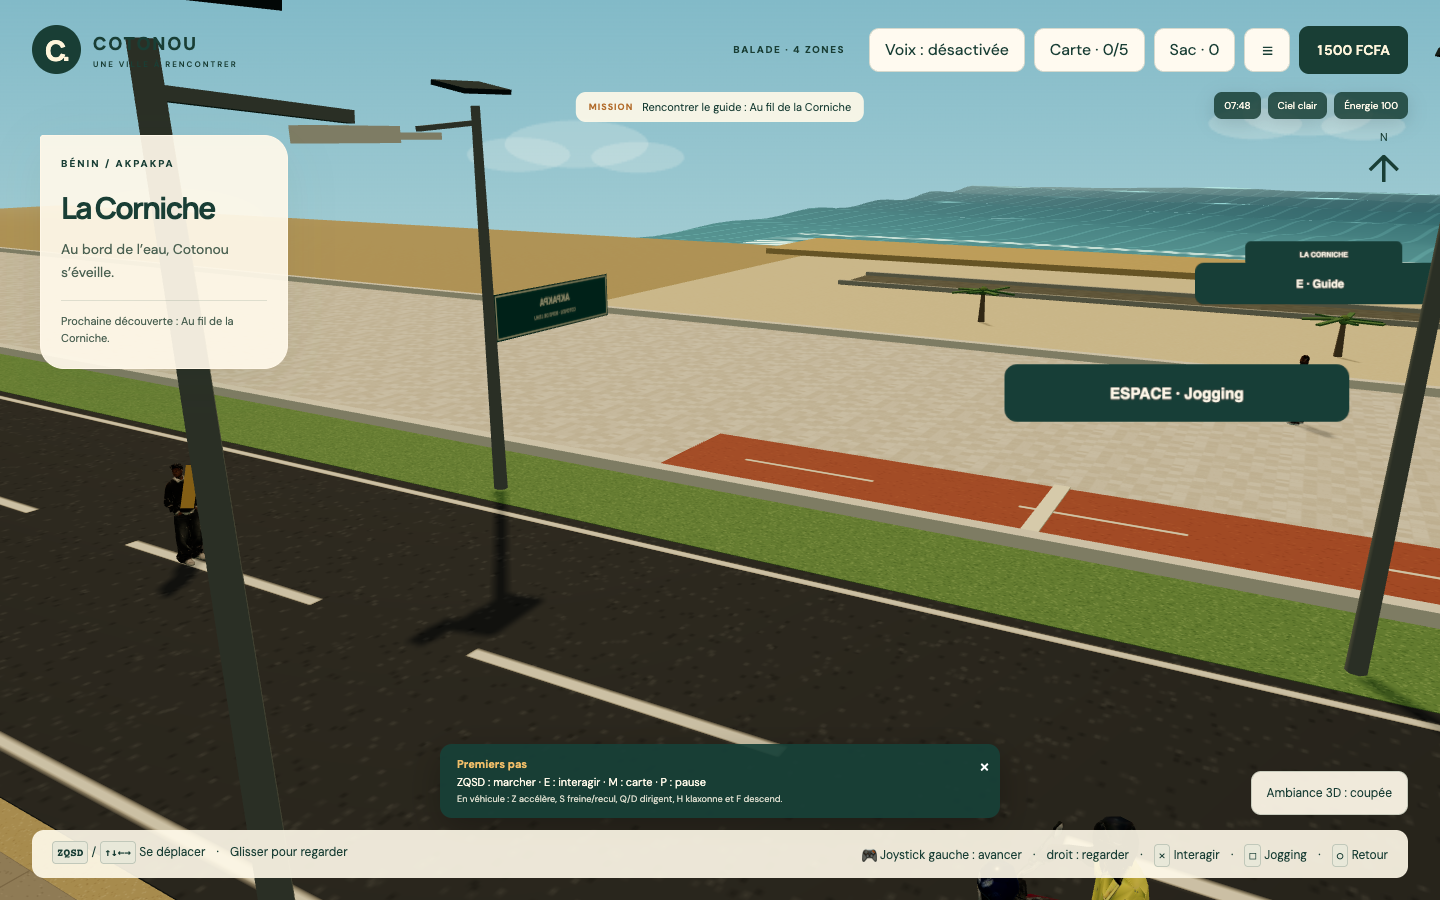
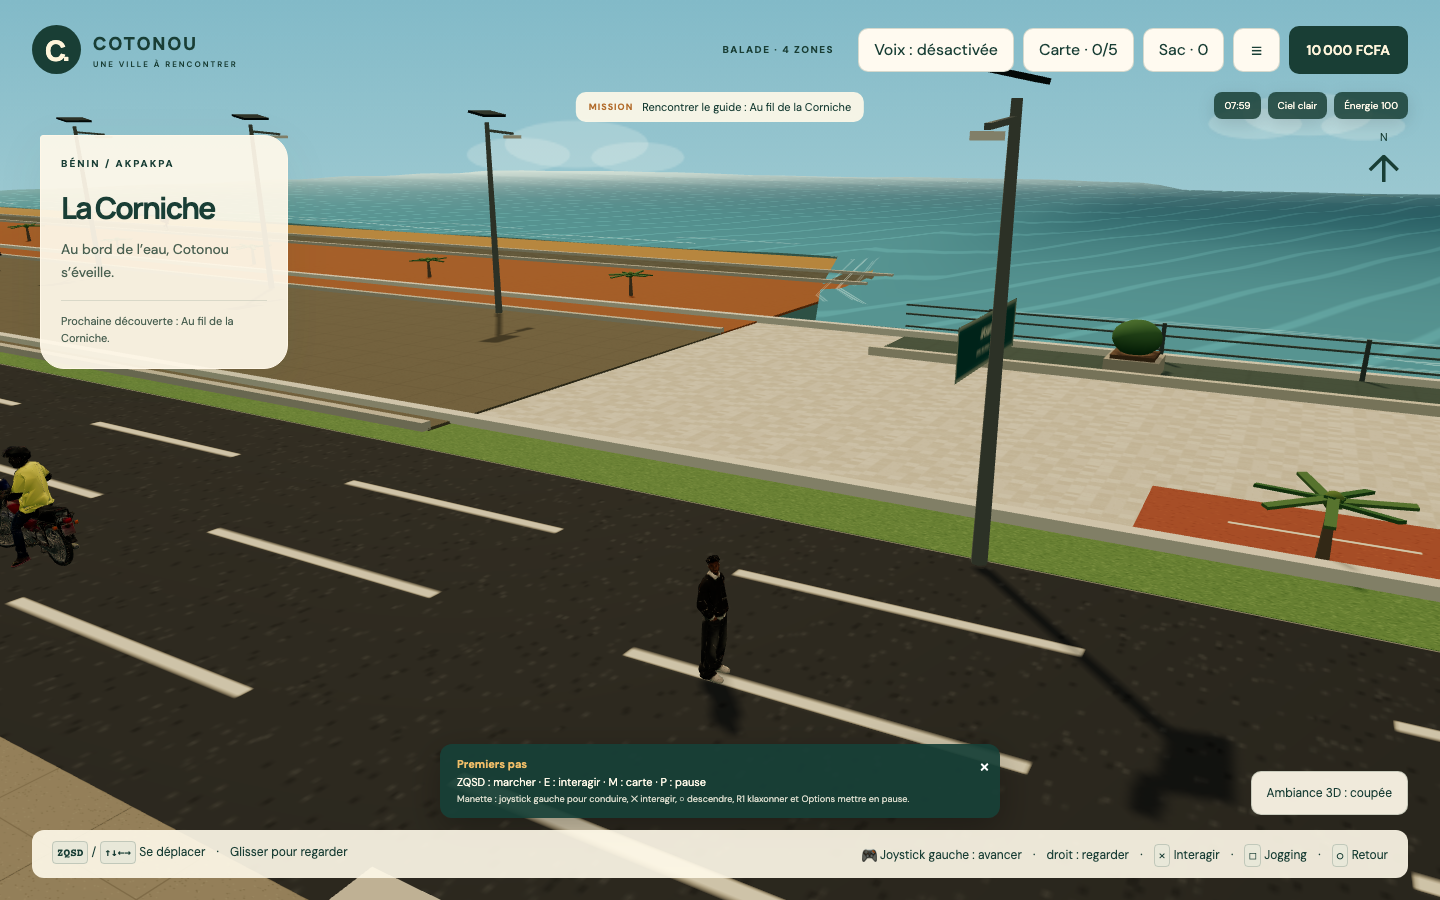
feat: enhance urban landscape with new city front and detailed structures

diff --git a/src/entities/Rues.ts b/src/entities/Rues.ts
@@ -24,7 +24,7 @@ export class Rues {
   private readonly statiques:{objet:T.Object3D;portee:number}[]=[];
   private temps=0;
   constructor(private readonly b:Batisseur){
-    this.cornichePlage6194();this.cornicheObservee();this.fresquePortuaire();this.carrefoursOfficiels();
+    this.cornichePlage6194();this.frontPlageOuverte();this.cornicheObservee();this.fresquePortuaire();this.carrefoursOfficiels();
     this.facades();this.abords();this.circulation();this.passants();
   }
   /** Mobilier du premier tronçon, relevé dans les 17 secondes de IMG_6194.MOV. */
@@ -274,10 +274,164 @@ export class Rues {
     c.beginPath();c.moveTo(128,102);c.lineTo(117,145);c.lineTo(91,181);c.moveTo(119,139);c.lineTo(151,176);c.moveTo(122,119);c.lineTo(158,137);c.stroke();
     for(let i=0;i<4;i++){c.fillStyle='#252d30';c.fillRect(61+i*36,196,25,9);}
     const texture=new T.CanvasTexture(toile);texture.colorSpace=T.SRGBColorSpace;
-    const g=new T.Group();g.name='panneau-pieton-6194';g.position.set(x,0,z);this.b.scene.add(g);
+    const g=new T.Group();g.name=`panneau-pieton-${Math.round(z)}`;g.position.set(x,0,z);this.b.scene.add(g);
     this.b.cyl(.065,.09,3.7,7,'#737975',0,1.85,0,g);
     const panneau=new T.Mesh(new T.PlaneGeometry(1.25,1.25),new T.MeshStandardMaterial({map:texture,roughness:.85,side:T.DoubleSide}));
     panneau.position.set(0,3.45,0);g.add(panneau);
+  }
+  /**
+   * Front de ville qui fait face à la plage ouverte, relevé sur IMG_6202–6207 :
+   * clôtures blanches à claustras et pilastres bleus, portail métallique, fonds
+   * de parcelle plantés de cocotiers, complexe vert menthe à toitures en pente,
+   * immeuble à balcons, terrain sableux ceint d'un mur ajouré sombre, puis
+   * immeubles clairs et pylône télécom au fond. Ce côté du boulevard était vide
+   * sur tout le premier tronçon : le regard partait droit dans le ciel.
+   */
+  private frontPlageOuverte(){
+    // Trottoir et caniveau continus, dans la même coupe que le tronçon suivant.
+    this.b.sol(3.2,126,this.b.tex('beton',2,45,'#d8d3c8'),23.1,87,.02);
+    this.b.sol(.55,126,'#64665f',21.25,87,-.07);
+    for(let z=148;z>28;z-=9)this.b.boite(.85,.1,2,'#cbc5b8',21.35,.02,z).castShadow=false;
+    // Les mâts solaires se succèdent aussi côté ville sur la chaussée neuve.
+    for(let z=146;z>28;z-=15)this.lampadaireSolaire(21.45,z,-1);
+    // Seconde traversée piétonne, à mi-parcours de la plage ouverte.
+    for(let x=10.1;x<22.2;x+=1.35)this.b.boite(.76,.035,3,'#f2efe5',x,.035,58).castShadow=false;
+    this.panneauPieton(23.5,63);
+
+    // Clôtures de propriétés, coupées par un portail puis par le terrain vague.
+    this.clotureClaustra(127,42,'#eceadf','#5a86a6');
+    this.portailBleu(100);
+    this.clotureClaustra(85,18,'#eceadf','#5a86a6');
+    this.clotureClaustra(59,30,'#cfcabb','#4d5a57');
+    this.clotureClaustra(35,14,'#eceadf','#5a86a6');
+    // Terrain sableux derrière le mur ajouré sombre relevé sur IMG_6203.
+    this.b.sol(18,26,this.b.tex('sable',7,10,'#c99a63'),36,57,.015);
+    for(const [x,z] of [[25.6,118],[25.6,119.6],[25.6,76.5],[25.6,78.1],[25.6,46]] as const)this.poubelleVerte(x,z);
+
+    // Fonds de parcelle : cocotiers serrés, paillote et petit bâtiment patiné.
+    for(let z=146;z>30;z-=9.5){
+      if(z<73&&z>45)continue;
+      this.b.cocotier(30.2+varie(z,3)*2.6,z+varie(z,8)*2.4,false);
+    }
+    this.paillote(32.5,104);
+    this.b.boite(9,2.9,12,'#c3bbaa',31.5,1.45,86);
+    this.b.boite(9.8,.32,12.8,'#4d7fa1',31.5,3.06,86);
+    for(const [x,z] of [[29.5,76],[33,42]] as const)this.b.arbre(x,z,.8);
+
+    // Complexe vert menthe : hangars à toiture en pente et immeuble à balcons.
+    for(const z of [146,137,128])this.hangarVert(42,z,13,7.4,3.6);
+    this.immeubleBalcons(41,112);
+    // Longs bâtiments clairs à bandeaux, coiffés d'une tourelle cylindrique.
+    this.immeubleBandeaux(43,84,14,13,26);
+    this.immeubleBandeaux(43,32,13,10,18);
+    // Immeubles lointains et pylône télécom, repères du fond de la photo.
+    for(const [x,z,h,teinte] of [[56,134,11,'#d8a58c'],[56,100,9,'#cfd3c0'],[56,56,12,'#d3b79a']] as const){
+      this.b.boite(12,h,16,this.b.tex('immeuble',1,h/5,teinte),x,h/2,z);
+      this.b.boite(12.6,.3,16.6,'#b6b0a2',x,h+.15,z);
+    }
+    this.pyloneTelecom(52,118,19);
+  }
+  /**
+   * Clôture de propriété de la Corniche Est : soubassement, panneaux clairs,
+   * pilastres et couronnements colorés, rangée de claustras ajourés au sommet.
+   */
+  private clotureClaustra(z:number,longueur:number,panneau:string,accent:string){
+    const g=new T.Group();g.name=`cloture-corniche-${Math.round(z)}`;g.position.set(26.9,0,z);this.b.scene.add(g);
+    this.b.boite(.44,.3,longueur,'#b6b0a1',0,.15,0,g);
+    this.b.boite(.34,1.6,longueur,panneau,0,1.1,0,g);
+    this.b.boite(.42,.2,longueur,accent,0,2,0,g);
+    this.b.boite(.28,.62,longueur,this.b.tex('claustra',Math.round(longueur/1.3),1,'#e9e5d8'),0,2.41,0,g);
+    this.b.boite(.42,.16,longueur,accent,0,2.8,0,g);
+    // Le pas est ajusté pour qu'un pilastre tombe exactement aux deux bouts.
+    const pas=longueur/Math.max(1,Math.round(longueur/4.4));
+    for(let dz=-longueur/2;dz<=longueur/2+.01;dz+=pas)this.b.boite(.48,2.88,.48,accent,0,1.44,dz,g);
+    this.statiques.push({objet:g,portee:170});
+    return g;
+  }
+  /** Portail métallique bleu à deux battants, entre deux piles blanches. */
+  private portailBleu(z:number){
+    const g=new T.Group();g.name='portail-corniche';g.position.set(26.9,0,z);this.b.scene.add(g);
+    for(const dz of [-2.05,2.05]){
+      this.b.boite(.14,2.5,4,'#3f6f96',0,1.28,dz,g);
+      for(let y=.5;y<2.4;y+=.44)this.b.boite(.18,.08,3.8,'#31597b',0,y,dz,g).castShadow=false;
+    }
+    for(const dz of [-4.3,4.3])this.b.boite(.56,3.05,.56,'#e2ddcf',0,1.52,dz,g);
+    this.statiques.push({objet:g,portee:170});
+  }
+  /** Paillote à toit de chaume aperçue derrière la clôture sur IMG_6204. */
+  private paillote(x:number,z:number){
+    const g=new T.Group();g.name='paillote-corniche';g.position.set(x,0,z);this.b.scene.add(g);
+    for(const [dx,dz] of [[-2.3,-2.3],[2.3,-2.3],[-2.3,2.3],[2.3,2.3]] as const)
+      this.b.cyl(.11,.14,2.6,6,'#8a6f4f',dx,1.3,dz,g);
+    const bord=this.b.cone(4.5,.4,4,'#8a6a3a',0,2.75,0,g);bord.rotation.y=Math.PI/4;
+    const toit=this.b.cone(4.1,1.6,4,'#a6813f',0,3.4,0,g);toit.rotation.y=Math.PI/4;
+    this.statiques.push({objet:g,portee:170});
+  }
+  /** Hangar vert menthe à toiture en pente du complexe vu sur IMG_6202. */
+  private hangarVert(x:number,z:number,w:number,d:number,h:number){
+    const g=new T.Group();g.name=`hangar-vert-${Math.round(z)}`;g.position.set(x,0,z);this.b.scene.add(g);
+    this.b.boite(w,h,d,'#cfe0d2',0,h/2,0,g);
+    for(const sens of [-1,1]){
+      const pan=this.b.boite(w+.6,.2,d/2+.6,'#a8bcac',0,h+.58,sens*d/4,g);
+      pan.rotation.x=sens*.3;
+    }
+    this.b.boite(w-1,.85,.16,'#eef4ec',0,h-.75,-d/2-.08,g);
+    for(const dx of [-w/4,w/4])this.b.boite(1.3,1.5,.12,'#48696c',dx,h/2-.2,-d/2-.07,g);
+    this.statiques.push({objet:g,portee:170});
+  }
+  /** Immeuble pâle à trois niveaux de balcons filants, centre de la photo IMG_6202. */
+  private immeubleBalcons(x:number,z:number){
+    const g=new T.Group();g.name=`immeuble-balcons-${Math.round(z)}`;g.position.set(x,0,z);this.b.scene.add(g);
+    this.b.boite(11,9.6,12,'#cadfd0',0,4.8,0,g);
+    for(let y=3.1;y<9.2;y+=3.1){
+      this.b.boite(11.5,.2,12.5,'#eaf0e7',0,y,0,g).castShadow=false;
+      for(const dz of [-3.6,0,3.6]){
+        this.b.boite(.12,1.6,2.5,'#40636b',-5.56,y+.95,dz,g);
+        const dalle=this.b.boite(1.5,.14,2.8,'#eaf0e7',-6.2,y+.22,dz,g);dalle.castShadow=false;
+        for(let bz=-1.25;bz<1.3;bz+=.42)this.b.boite(.07,.8,.07,'#8a9c8d',-6.85,y+.62,dz+bz,g).castShadow=false;
+        this.b.boite(.1,.1,2.75,'#8a9c8d',-6.85,y+1.02,dz,g).castShadow=false;
+      }
+    }
+    this.b.boite(11.6,.34,12.6,'#a8bdae',0,9.77,0,g);
+    this.statiques.push({objet:g,portee:170});
+  }
+  /** Long bâtiment clair à bandeaux et tourelle de toit, fond de la photo IMG_6205. */
+  private immeubleBandeaux(x:number,z:number,w:number,h:number,d:number){
+    const g=new T.Group();g.name=`immeuble-bandeaux-${Math.round(z)}`;g.position.set(x,0,z);this.b.scene.add(g);
+    this.b.boite(w,h,d,'#dee4e1',0,h/2,0,g);
+    for(let y=2.7;y<h-1;y+=3.2){
+      this.b.boite(.12,1.45,d-1.8,'#3f6d84',-w/2-.06,y,0,g);
+      this.b.boite(w-1.8,1.45,.12,'#3f6d84',0,y,-d/2-.06,g);
+    }
+    this.b.boite(w+.7,.34,d+.7,'#bac2be',0,h+.17,0,g);
+    this.b.cyl(1.8,1.8,3,12,'#e8ece8',w*.2,h+1.8,d*.12,g);
+    this.statiques.push({objet:g,portee:170});
+  }
+  /** Pylône télécom en treillis, silhouette récurrente au-dessus du quartier. */
+  private pyloneTelecom(x:number,z:number,h:number){
+    const g=new T.Group();g.name='pylone-telecom-corniche';g.position.set(x,0,z);this.b.scene.add(g);
+    const acier=this.b.mat('#8f9691');
+    for(const [dx,dz] of [[-1,-1],[1,-1],[-1,1],[1,1]] as const){
+      const jambe=this.b.cyl(.07,.11,h,5,acier,dx*.6,h/2,dz*.6,g);
+      jambe.rotation.set(-dz*.022,0,dx*.022);jambe.castShadow=false;
+    }
+    for(let y=1.8;y<h;y+=3.2){
+      for(const dz of [-.6,.6])this.b.boite(1.25,.07,.07,acier,0,y,dz,g).castShadow=false;
+      for(const dx of [-.6,.6])this.b.boite(.07,.07,1.25,acier,dx,y,0,g).castShadow=false;
+    }
+    for(const dy of [0,1])for(const a of [0,2.09,4.19]){
+      const antenne=this.b.boite(.85,.55,.11,'#cbcfc8',Math.cos(a)*1.05,h-1.3-dy,Math.sin(a)*1.05,g);
+      antenne.rotation.y=-a;antenne.castShadow=false;
+    }
+    this.statiques.push({objet:g,portee:170});
+  }
+  /** Bac à ordures vert sur roues, aligné au pied des clôtures. */
+  private poubelleVerte(x:number,z:number){
+    const g=new T.Group();g.position.set(x,0,z);this.b.scene.add(g);
+    this.b.boite(.7,.92,.6,'#3f7248',0,.55,0,g);
+    this.b.boite(.76,.1,.66,'#2f5636',0,1.06,0,g);
+    for(const dz of [-.2,.2])this.b.cyl(.09,.09,.07,8,'#2b2f2d',-.26,.09,dz,g).rotation.z=Math.PI/2;
+    this.statiques.push({objet:g,portee:120});
   }
   private parasol(x:number,z:number,couleur:string){
     const g=new T.Group();g.position.set(x,0,z);this.b.racine.add(g);

diff --git a/src/entities/Monuments.ts b/src/entities/Monuments.ts
@@ -20,7 +20,7 @@ export function boulevard(b: Batisseur) {
   // circulation peut ainsi faire demi-tour hors champ sans rouler dans le vide.
   const longueur = 710, centre = -175;
   b.sol(28, longueur, b.tex('sable', 14, 310, '#cfc6ab'), -22, centre, -.05).name='sol-lointain-ouest';
-  b.sol(30, longueur, b.tex('sable', 15, 310, '#c9c2a8'), 36, centre, -.05).name='sol-lointain-est';
+  b.sol(64, longueur, b.tex('sable', 32, 310, '#c9c2a8'), 53, centre, -.05).name='sol-lointain-est';
   b.sol(16.4, longueur, b.tex('paves', 8, 308), .1, centre).name='promenade-continue';
   b.sol(2.2, longueur, b.tex('gazon', 1.5, 205), 9.25, centre, -.02).name='accotement-continu';
   b.sol(13, longueur, b.tex('asphalte', 1, 77), 16, centre, -.03).name='chaussee-continue';
@@ -37,8 +37,8 @@ function horizonUrbain(b: Batisseur) {
   const couleurs=['#c9bda8','#b7c2bb','#d2aa87','#aab8b5','#d5cbb7'];
   // Deux rangées restent derrière les façades détaillées. Leur silhouette est
   // visible lorsque le joueur regarde de côté, à la place d'un grand fond vide.
-  for(let i=0;i<19;i++){
-    const z=66-i*30+(i%2?4:-3),x=72;
+  for(let i=0;i<23;i++){
+    const z=171-i*30+(i%2?4:-3),x=72;
     const h=5+(i*7%11),w=13+(i%3)*4,d=18+(i%4)*3;
     const immeuble=b.boite(w,h,d,couleurs[(i+2)%couleurs.length],x,h/2,z);
     immeuble.castShadow=false;
@@ -46,7 +46,7 @@ function horizonUrbain(b: Batisseur) {
     bande.castShadow=false;
   }
   // Les deux extrémités ferment la perspective au-delà des demi-tours du trafic.
-  for(const z of [82,-474])for(let x=30;x<=70;x+=20){
+  for(const z of [176,-474])for(let x=30;x<=70;x+=20){
     const h=5+Math.abs(Math.round(x/10))%8;
     const fond=b.boite(16,h,13,couleurs[Math.abs(Math.round(x/20))%couleurs.length],x,h/2,z);
     fond.castShadow=false;

diff --git a/docs/REFERENCES.md b/docs/REFERENCES.md
@@ -225,3 +225,9 @@ Les vidéos locales `CORNICHE .mp4` et `TOUR.mp4` ont été parcourues sur toute
 `CORNICHE .mp4` montre une chaussée sombre large, plusieurs files séparées par des pointillés blancs, le bord d'eau très proche, une bande de promenade bleu-gris, un garde-corps métallique, des jardinières espacées et un front bâti bas côté ville. `TOUR.mp4` montre les jardins géométriques autour de l'Amazone, une allée blanche sinueuse, de grands îlots verts, la Cité ministérielle, le Palais des Congrès et des quartiers résidentiels composés de villas claires à toits orangés, jardins clos et piscines.
 
 Corrections réalisées : l'océan rejoint désormais la promenade de la Corniche ; ses vagues et son écume restent animées mais plus discrètes. La promenade reçoit sa bande bleu-gris, sa rambarde et ses jardinières. Le boulevard est élargi et son marquage suggère quatre files. Un jardin aérien avec allée courbe prolonge l'Esplanade et un arrière-plan de villas végétalisées complète le côté ville.
+
+## Front de ville face à la plage ouverte `IMG_6202–6207`
+
+Vue depuis la chaussée, côté ville, à hauteur du premier tronçon de la Corniche. Les six clichés montrent une clôture continue de propriétés : soubassement, panneaux blancs, pilastres et couronnements bleu-gris, rangée de claustras ajourés au sommet, et un portail métallique bleu à deux battants. Des bacs à ordures verts sont alignés au pied du mur, sur un trottoir clair bordé d'un caniveau. Derrière la clôture : des cocotiers, une paillote, un petit bâtiment de béton patiné à acrotère bleu. Au second plan, un complexe vert menthe à toitures en pente, un immeuble pâle à trois niveaux de balcons filants, un long bâtiment clair à bandeaux coiffé d'une tourelle cylindrique. Au fond, un terrain sableux ceint d'un mur ajouré sombre, des immeubles saumon et beige, et un pylône télécom en treillis. La chaussée neuve est jalonnée d'une forêt de mâts solaires, des deux côtés, et coupée de passages piétons.
+
+Corrections réalisées : ce côté du boulevard était entièrement vide sur tout le premier tronçon — le regard partait droit dans le ciel depuis la promenade. Le front bâti ci-dessus le comble, du trottoir jusqu'au pylône. Le sol lointain de l'est est par ailleurs élargi jusqu'à la rangée d'immeubles d'horizon, qui flottait au-dessus de la ligne de sable, et cette rangée est prolongée vers le nord pour couvrir la plage ouverte.
